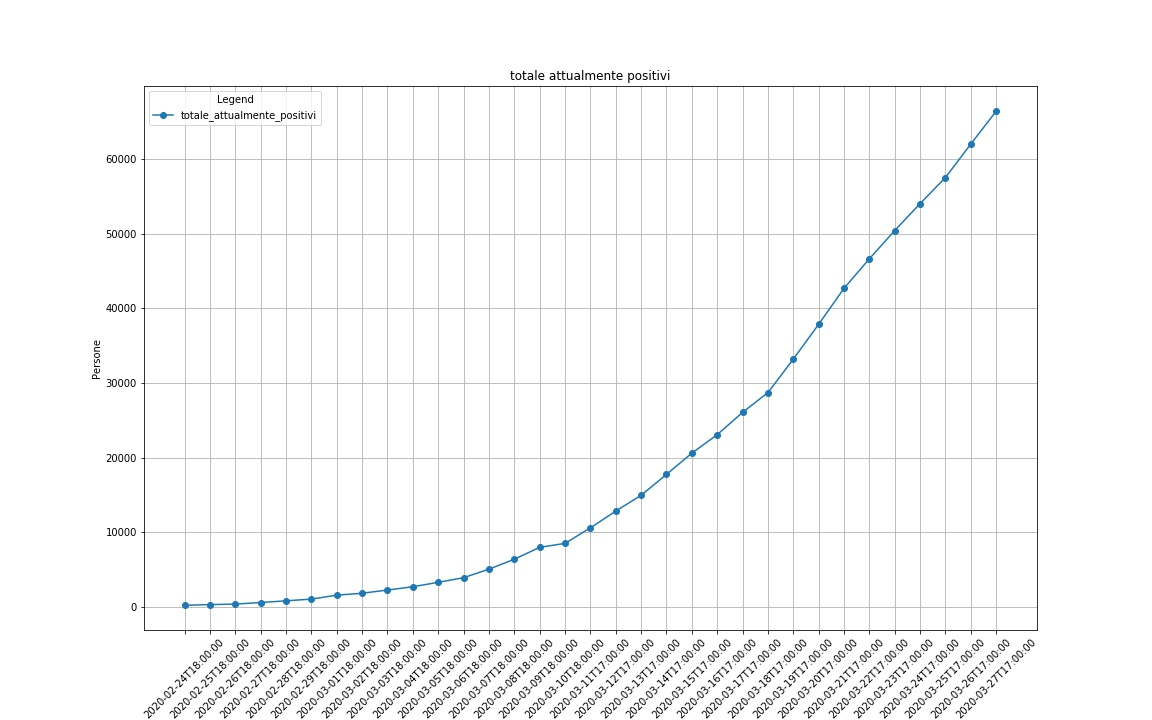
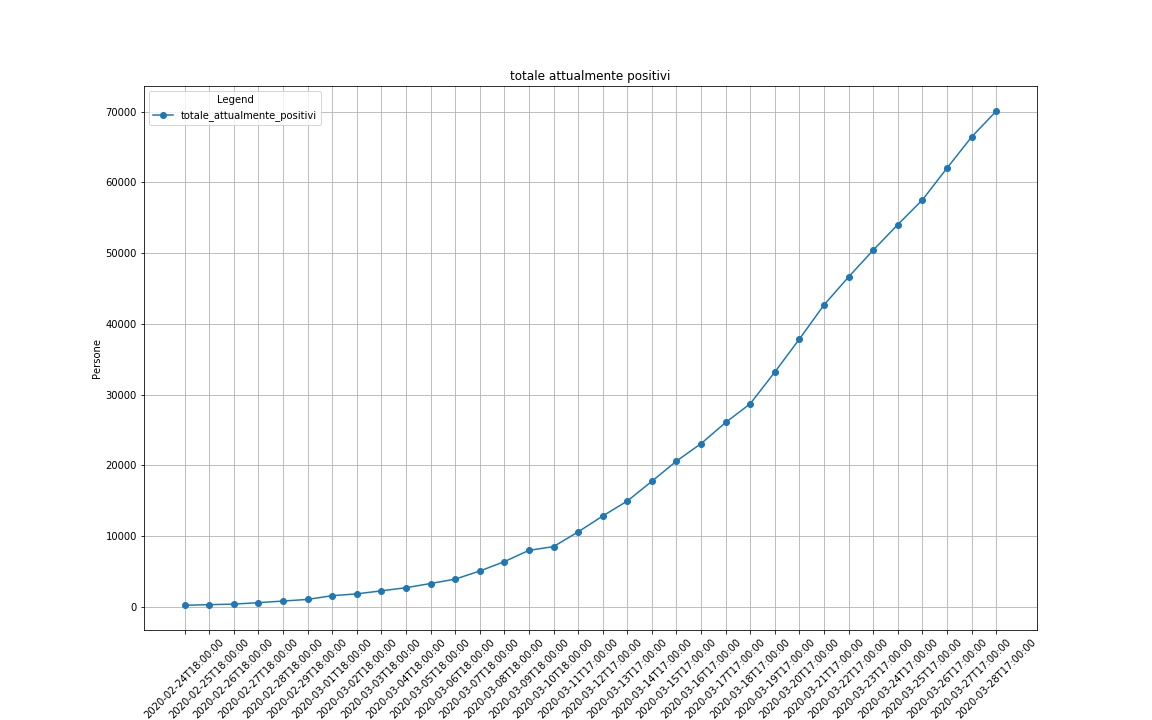
UPD: 28/03/2020 & multiprocess added for SIR calibration

diff --git a/prediction_sir_model.py b/prediction_sir_model.py
@@ -1,27 +1,18 @@
-# -*- coding: utf-8 -*-
-"""
-Created on Sun Mar 22 12:26:50 2020
-
-@author: bergs
-"""
+# Author: Stefano Bergamini
 
 import pandas as pd
-import matplotlib.pyplot as plt
 import numpy as np
 import statistics
-from scipy.integrate import odeint
 import matplotlib.pyplot as plt
 
-file_name_it = "https://raw.githubusercontent.com/pcm-dpc/COVID-19/master/dati-andamento-nazionale/dpc-covid19-ita-andamento-nazionale.csv"
-file_name_regions = "https://raw.githubusercontent.com/pcm-dpc/COVID-19/master/dati-regioni/dpc-covid19-ita-regioni.csv"
-DataFrame = pd.read_csv(file_name_it)
-DataFrame_regions = pd.read_csv(file_name_regions)
+from scipy.integrate import odeint
 
-def SIR_model(I0, R0, N, beta, gamma, t_max=len(DataFrame.data)):
+def SIR_model(I0, R0, N, beta, gamma, t_max):
     # Everyone else, S0, is susceptible to infection initially.
     S0 = N - I0 - R0
     # A grid of time points (in days)
     t = np.linspace(0, t_max, t_max)
+
     # The SIR model differential equations.
     def deriv(y, t, N, beta, gamma):
         S, I, R = y
@@ -37,47 +28,56 @@ def SIR_model(I0, R0, N, beta, gamma, t_max=len(DataFrame.data)):
     S, I, R = ret.T
     return S, I, R, t
 
-def calibration(N_min, N_max, N_jump, max_error, beta_min=0.15, beta_max=0.4, gamma_den_min=1, gamma_den_max=14):
-    #result = pd.DataFrame(columns=['N', 'beta', 'gamma_den', 'R0', 'error_avg'])
-    for N in range(N_min, N_max, N_jump):
-        list = []
-        situazione_calcolo = (N-N_min) / (N_max-N_min)
-        print("Calcolo al: "+str(round(situazione_calcolo*100, 2))+"%")
-        for beta in np.arange(beta_min, beta_max, 0.0025):
-            for gamma_den in np.arange(gamma_den_min, gamma_den_max, 0.1):
-                gamma = 1 / gamma_den
-                S, I, R, t = SIR_model(I0, R0, N, beta, gamma)
-                positivi_misurati = DataFrame.totale_attualmente_positivi
-                guariti_misurati = DataFrame.dimessi_guariti
-                error_positivi = (I - positivi_misurati) / positivi_misurati
-                error_guariti = (R - guariti_misurati) / guariti_misurati
-                error_positivi_avg = statistics.mean(abs(error_positivi))
-                error_guariti_avg = statistics.mean(abs(error_guariti))
-                if abs(error_positivi_avg) < max_error:
-                    #print(N, beta, gamma_den, beta/gamma, error_positivi_avg, error_guariti_avg)
-                    list.append([N, beta, gamma_den, beta/gamma, error_positivi_avg, error_guariti_avg])  
-        result = pd.DataFrame(list, columns = ["N", "beta", "gamms_den", "R0", "error_positivi_avg", "error_guariti_avg"])
-        index_min_error = result.error_positivi_avg.idxmin()
-        N, beta, gamma_den, Rknot, err_positivi, err_guariti = result.iloc[index_min_error]
-        print(result.iloc[index_min_error])
-        S, I, R, t  = SIR_model(I0, R0, N, beta, 1/gamma_den, t_max = 120)
-        positivi_misurati = DataFrame.totale_attualmente_positivi
-        tempo_misurati = range(0,len(DataFrame.data))
-        plt_SIR_model(t, S, I, R, tempo_misurati, positivi_misurati, N, beta, gamma_den, Rknot, err_positivi)
+
+def calibration(DataFrame, N, max_error, beta_min=0.15, beta_max=0.45, gamma_den_min=1, gamma_den_max=14):
+    # result = pd.DataFrame(columns=['N', 'beta', 'gamma_den', 'R0', 'error_avg'])
+    list = []
+    t_max = len(DataFrame.data)
+    # Initial conditions for Italy COVID19
+    I0 = 229
+    R0 = 0
+    for beta in np.arange(beta_min, beta_max, 0.0025):
+        situazione_calcolo = (beta - beta_min) / (beta_max - beta_min)
+        print("Calcolo al: " + str(round(situazione_calcolo * 100, 2)) + "%")
+        for gamma_den in np.arange(gamma_den_min, gamma_den_max, 0.1):
+            gamma = 1 / gamma_den
+            S, I, R, t = SIR_model(I0, R0, N, beta, gamma, t_max)
+            positivi_misurati = DataFrame.totale_attualmente_positivi
+            guariti_misurati = DataFrame.dimessi_guariti
+            error_positivi = (I - positivi_misurati) / positivi_misurati
+            error_guariti = (R - guariti_misurati) / guariti_misurati
+            error_positivi_avg = statistics.mean(abs(error_positivi))
+            error_guariti_avg = statistics.mean(abs(error_guariti))
+            if abs(error_positivi_avg) < max_error:
+                # print(N, beta, gamma_den, beta/gamma, error_positivi_avg, error_guariti_avg)
+                list.append([N, beta, gamma_den, beta / gamma, error_positivi_avg, error_guariti_avg])
+    result = pd.DataFrame(list, columns=["N", "beta", "gamms_den", "R0", "error_positivi_avg", "error_guariti_avg"])
+    index_min_error = result.error_positivi_avg.idxmin()
+    N, beta, gamma_den, Rknot, err_positivi, err_guariti = result.iloc[index_min_error]
+    print(result.iloc[index_min_error])
+    # Initial conditions for Italy COVID19
+    I0 = 229
+    R0 = 0
+    S, I, R, t = SIR_model(I0, R0, N, beta, 1 / gamma_den, t_max=120)
+    positivi_misurati = DataFrame.totale_attualmente_positivi
+    tempo_misurati = range(0, t_max)
+    plt_SIR_model(t, S, I, R, tempo_misurati, positivi_misurati, N, beta, gamma_den, Rknot, err_positivi)
+    print("Calcolo al: 100%")
     return result
+
 
 def plt_SIR_model(t, S, I, R, tempo_misurati, positivi_misurati, N, beta, gamma_den, R0, err_positivi):
     # Plot the data on three separate curves for S(t), I(t) and R(t)
-    fig = plt.figure(facecolor='w', figsize=(16,10))
+    fig = plt.figure(facecolor='w', figsize=(16, 10))
     ax = fig.add_subplot(111, axisbelow=True)
-    ax.plot(t, S/1000, 'b', alpha=0.5, lw=2, label='Susceptible')
-    ax.plot(t, I/1000, 'r', alpha=0.5, lw=2, label='Infected')
-    ax.plot(t, R/1000, 'g', alpha=0.5, lw=2, label='Recovered with immunity')
-    ax.plot(tempo_misurati, positivi_misurati/1000, label='positivi')
-    #ax.plot(range(0,len(DataFrame.data)), DataFrame.dimessi_guariti/1000, label='guariti')
+    ax.plot(t, S / 1000, 'b', alpha=0.5, lw=2, label='Susceptible')
+    ax.plot(t, I / 1000, 'r', alpha=0.5, lw=2, label='Infected')
+    ax.plot(t, R / 1000, 'g', alpha=0.5, lw=2, label='Recovered with immunity')
+    ax.plot(tempo_misurati, positivi_misurati / 1000, label='positivi')
+    # ax.plot(range(0,len(DataFrame.data)), DataFrame.dimessi_guariti/1000, label='guariti')
     ax.set_xlabel('Time /days')
     ax.set_ylabel('Number (1000s)')
-    #ax.set_ylim(0,1.2)
+    # ax.set_ylim(0,1.2)
     ax.yaxis.set_tick_params(length=0)
     ax.xaxis.set_tick_params(length=0)
     ax.grid(b=True, which='major', c='w', lw=2, ls='-')
@@ -85,23 +85,34 @@ def plt_SIR_model(t, S, I, R, tempo_misurati, positivi_misurati, N, beta, gamma_
     legend.get_frame().set_alpha(0.5)
     for spine in ('top', 'right', 'bottom', 'left'):
         ax.spines[spine].set_visible(False)
-    filename=str('PredictionSIR N'+str(round(N))+', beta'+str(round(beta,5))+', gamma_den'+str(round(gamma_den,3))+', RO'+str(round(R0,3))+', error'+str(round(err_positivi,4))+'.jpg')
+    filename = str('PredictionSIR N' + str(round(N)) + ', beta' + str(round(beta, 5)) + ', gamma_den' + str(
+        round(gamma_den, 3)) + ', RO' + str(round(R0, 3)) + ', error' + str(round(err_positivi, 4)) + '.jpg')
     plt.savefig(filename)
+    return
 
-calibration_flag = 1
-#Parameters for calibration
-N_min, N_max, N_jump, max_error = 360000, 600000, 5000, 0.3
-I0 = 229
-R0 = 0
-# Calibration
-if calibration_flag == 1:
-    result = calibration(N_min, N_max, N_jump, max_error, beta_max=0.45)
-    index_min_error = result.error_positivi_avg.idxmin()
-    N, beta, gamma_den, Rknot, err_positivi, err_guariti = result.iloc[index_min_error]
-    print(result.iloc[index_min_error])
-print("Calcolo al: 100%")
-S, I, R, t  = SIR_model(I0, R0, N, beta, 1/gamma_den, t_max = 120)
-#Plot
-positivi_misurati = DataFrame.totale_attualmente_positivi
-tempo_misurati = range(0,len(DataFrame.data))
-plt_SIR_model(t, S, I, R, tempo_misurati, positivi_misurati)
+# Example
+# import prediction_sir_model
+#
+# if __name__ == '__main__':
+#     # Import real data
+#     file_name_it = "https://raw.githubusercontent.com/pcm-dpc/COVID-19/master/dati-andamento-nazionale/dpc-covid19-ita-andamento-nazionale.csv"
+#     file_name_regions = "https://raw.githubusercontent.com/pcm-dpc/COVID-19/master/dati-regioni/dpc-covid19-ita-regioni.csv"
+#     DataFrame = pd.read_csv(file_name_it)
+#     DataFrame_regions = pd.read_csv(file_name_regions)
+#
+#     # Plot data
+#     positivi_misurati = DataFrame.totale_attualmente_positivi
+#     tempo_misurati = range(0, len(DataFrame.data))
+#
+#     # Parameters for calibration
+#     N_min, N_max, N_jump, max_error = 360000, 600000, 5000, 0.3
+#     I0 = 229
+#     R0 = 0
+#     processes = [mp.Process(target=calibration, args=(DataFrame, N, max_error,)) for N in range(N_min, N_max, N_jump)]
+#     for p in processes:
+#       p.start()
+#     for p in processes:
+#       p.join()
+
+
+

diff --git a/main.py b/main.py
@@ -134,17 +134,17 @@ y_max = 3
 y_min = 0.5
 plot(x, y, title, x_label, y_label, plot_x_size, plot_y_size, legend, figname, y_max, y_min)
 
-#Tasso di crescita giornaliero w/ expansion
-ma_days=2
-x = dates
-y = moving_average = ratio_positivi.expanding(min_periods=ma_days).mean()
-title = "Tasso di crescita giornaliero using expansion"
-x_label = "Data"
-y_label = "Tasso di crescita giornaliero: positivi al giorno n+1 / positivi al giorno n, with expansion"
-legend = moving_average.columns.values
-figname = "Tasso di crescita giornaliero with expansion.jpg"
-y_max = 3
-plot(x, y, title, x_label, y_label, plot_x_size, plot_y_size, legend, figname, y_max)
+# #Tasso di crescita giornaliero w/ expansion
+# ma_days=2
+# x = dates
+# y = moving_average = ratio_positivi.expanding(min_periods=ma_days).mean()
+# title = "Tasso di crescita giornaliero using expansion"
+# x_label = "Data"
+# y_label = "Tasso di crescita giornaliero: positivi al giorno n+1 / positivi al giorno n, with expansion"
+# legend = moving_average.columns.values
+# figname = "Tasso di crescita giornaliero with expansion.jpg"
+# y_max = 3
+# plot(x, y, title, x_label, y_label, plot_x_size, plot_y_size, legend, figname, y_max)
 
 # Tasso di crescita giornaliero per regioni
 ma_days=1

diff --git a/multi-process-calibration.py b/multi-process-calibration.py
@@ -1,0 +1,25 @@
+# Author: Stefano Bergamini
+
+import pandas as pd
+import numpy as np
+import multiprocessing as mp
+import prediction_sir_model
+
+if __name__ == '__main__':
+    # Import real data
+    file_name_it = "https://raw.githubusercontent.com/pcm-dpc/COVID-19/master/dati-andamento-nazionale/dpc-covid19-ita-andamento-nazionale.csv"
+    file_name_regions = "https://raw.githubusercontent.com/pcm-dpc/COVID-19/master/dati-regioni/dpc-covid19-ita-regioni.csv"
+    DataFrame = pd.read_csv(file_name_it)
+    DataFrame_regions = pd.read_csv(file_name_regions)
+    t_max = len(DataFrame.data)
+    # Plot data
+    positivi_misurati = DataFrame.totale_attualmente_positivi
+    tempo_misurati = range(0, len(DataFrame.data))
+    # Parameters for calibration
+    N_min, N_max, N_jump, max_error = 360000, 600000, 5000, 0.3
+    processes = [mp.Process(target=prediction_sir_model.calibration, args=(DataFrame, N, max_error,)) for N in range(N_min, N_max, N_jump)]
+    # p = processes = mp.Process(target=prediction_sir_model.calibration, args=(DataFrame, 360000, max_error,))
+    for p in processes:
+        p.start()
+    for p in processes:
+        p.join()
